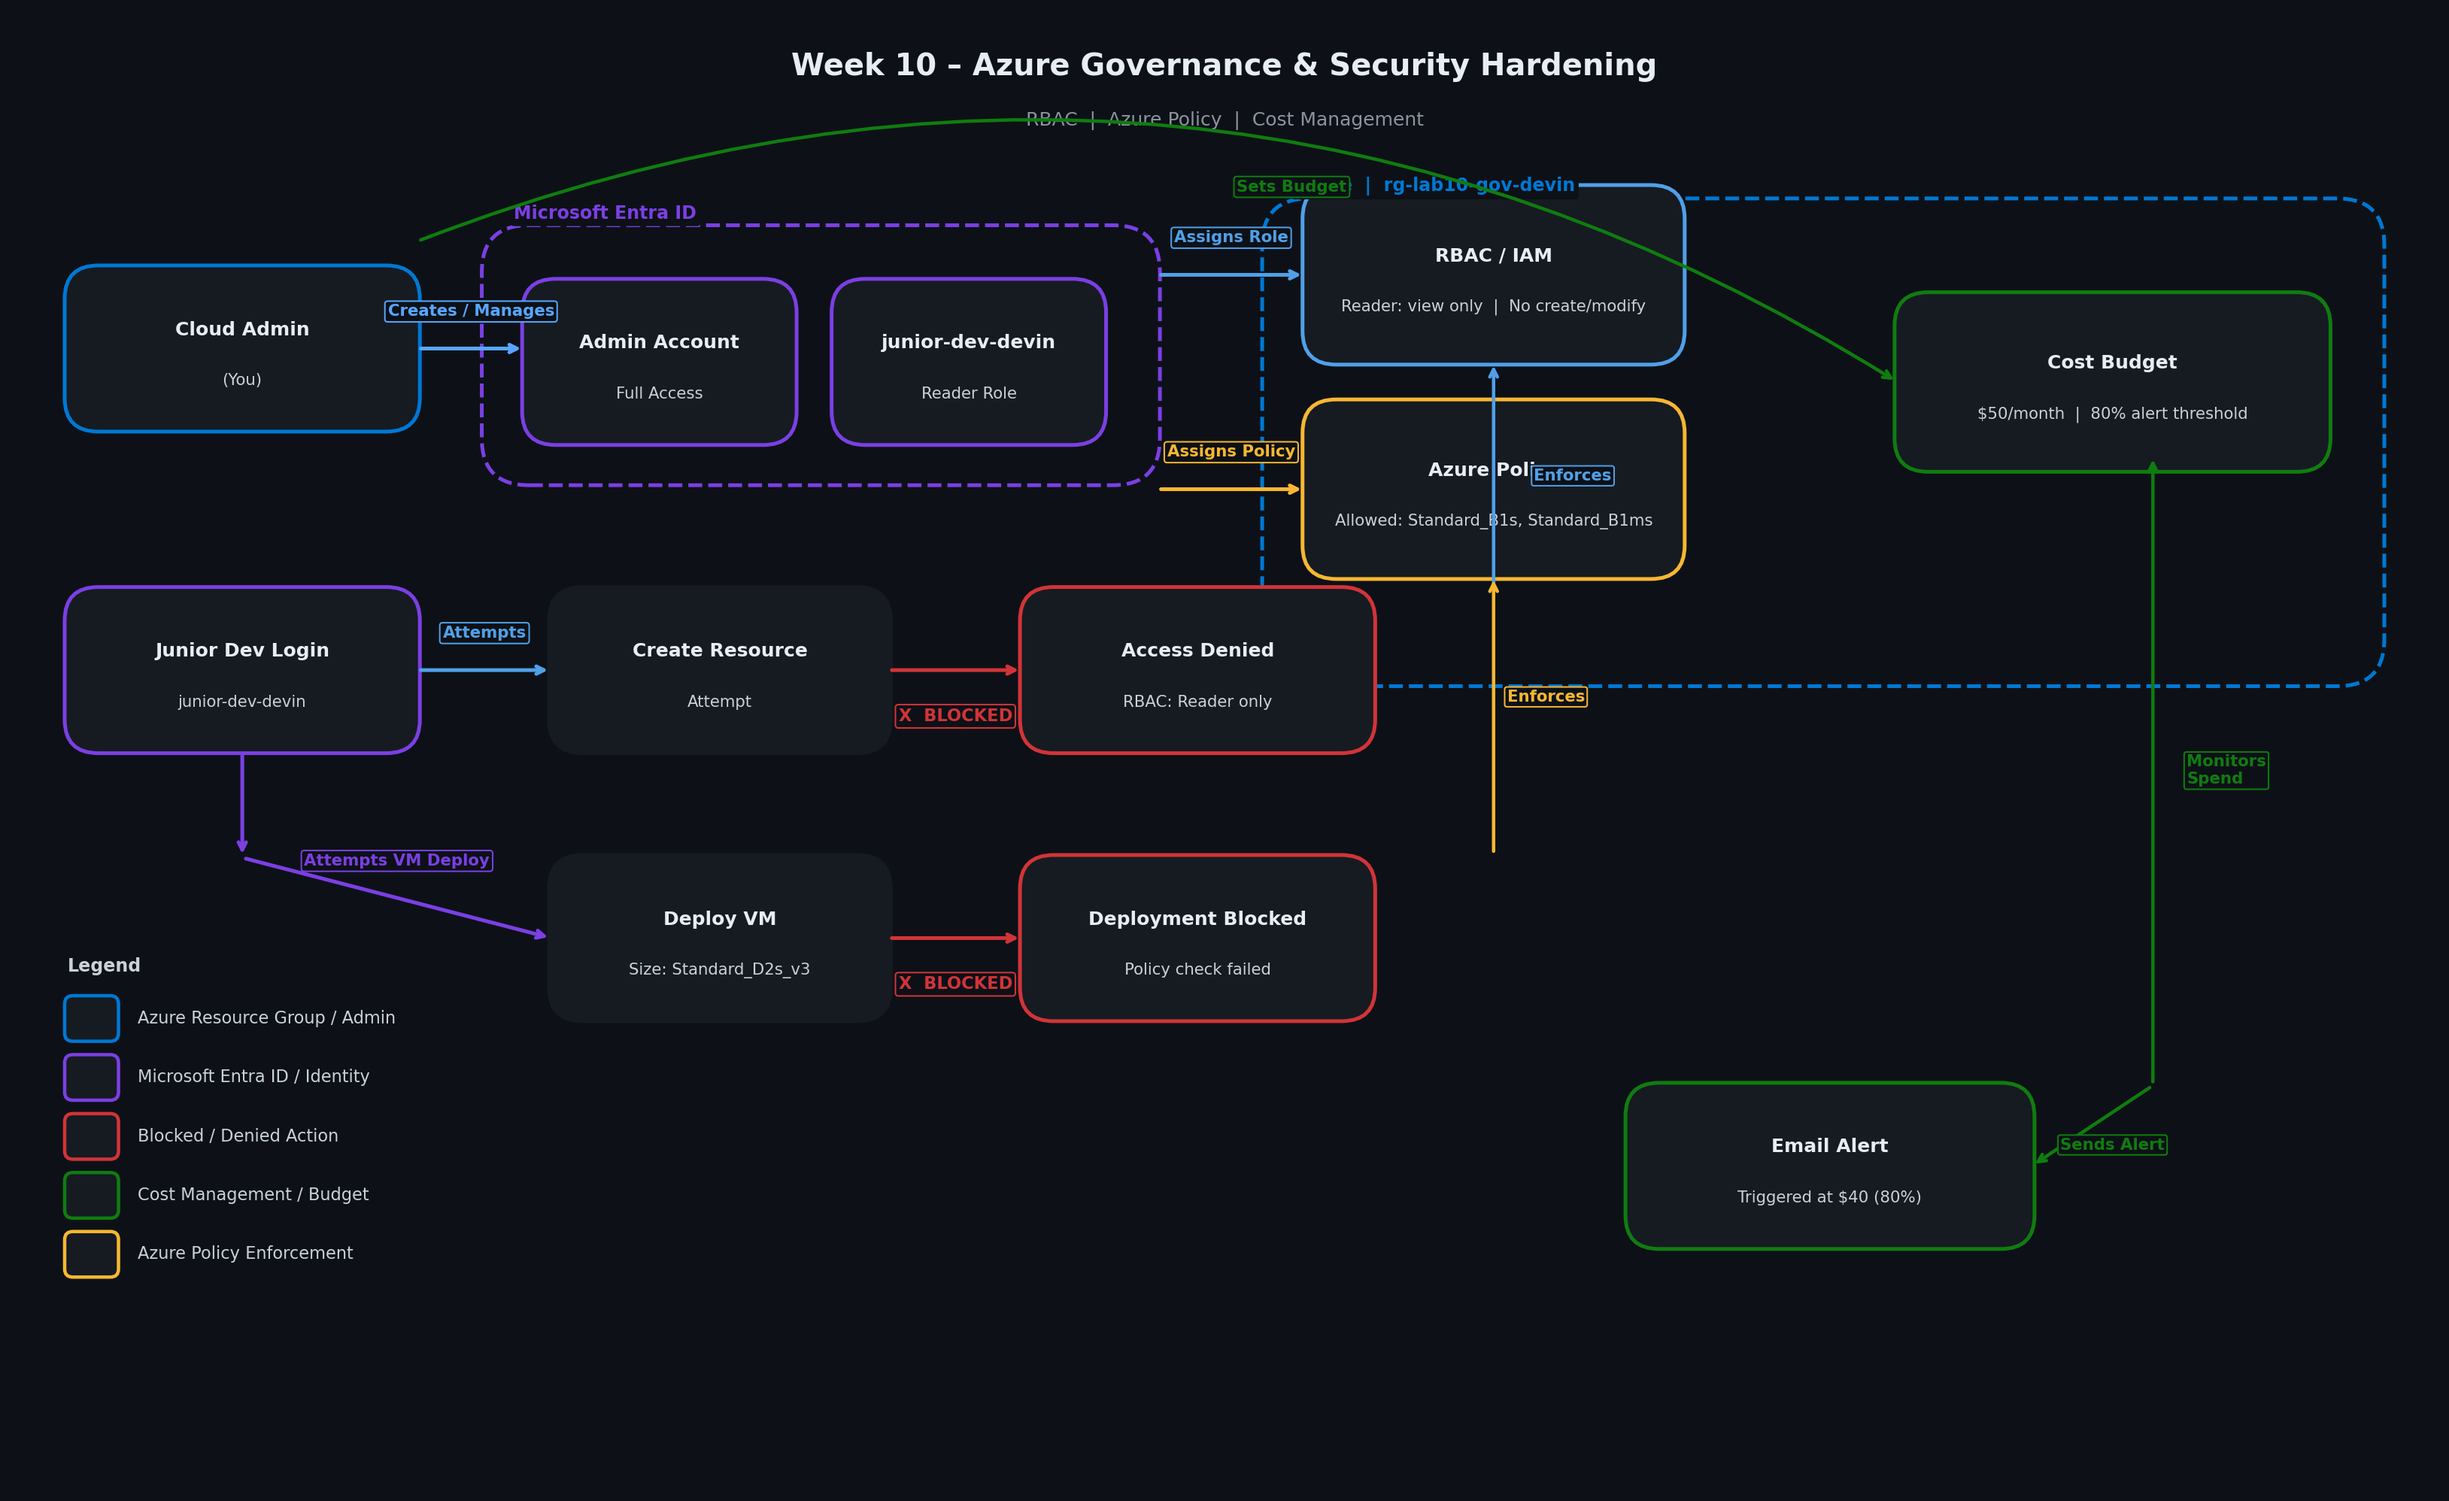
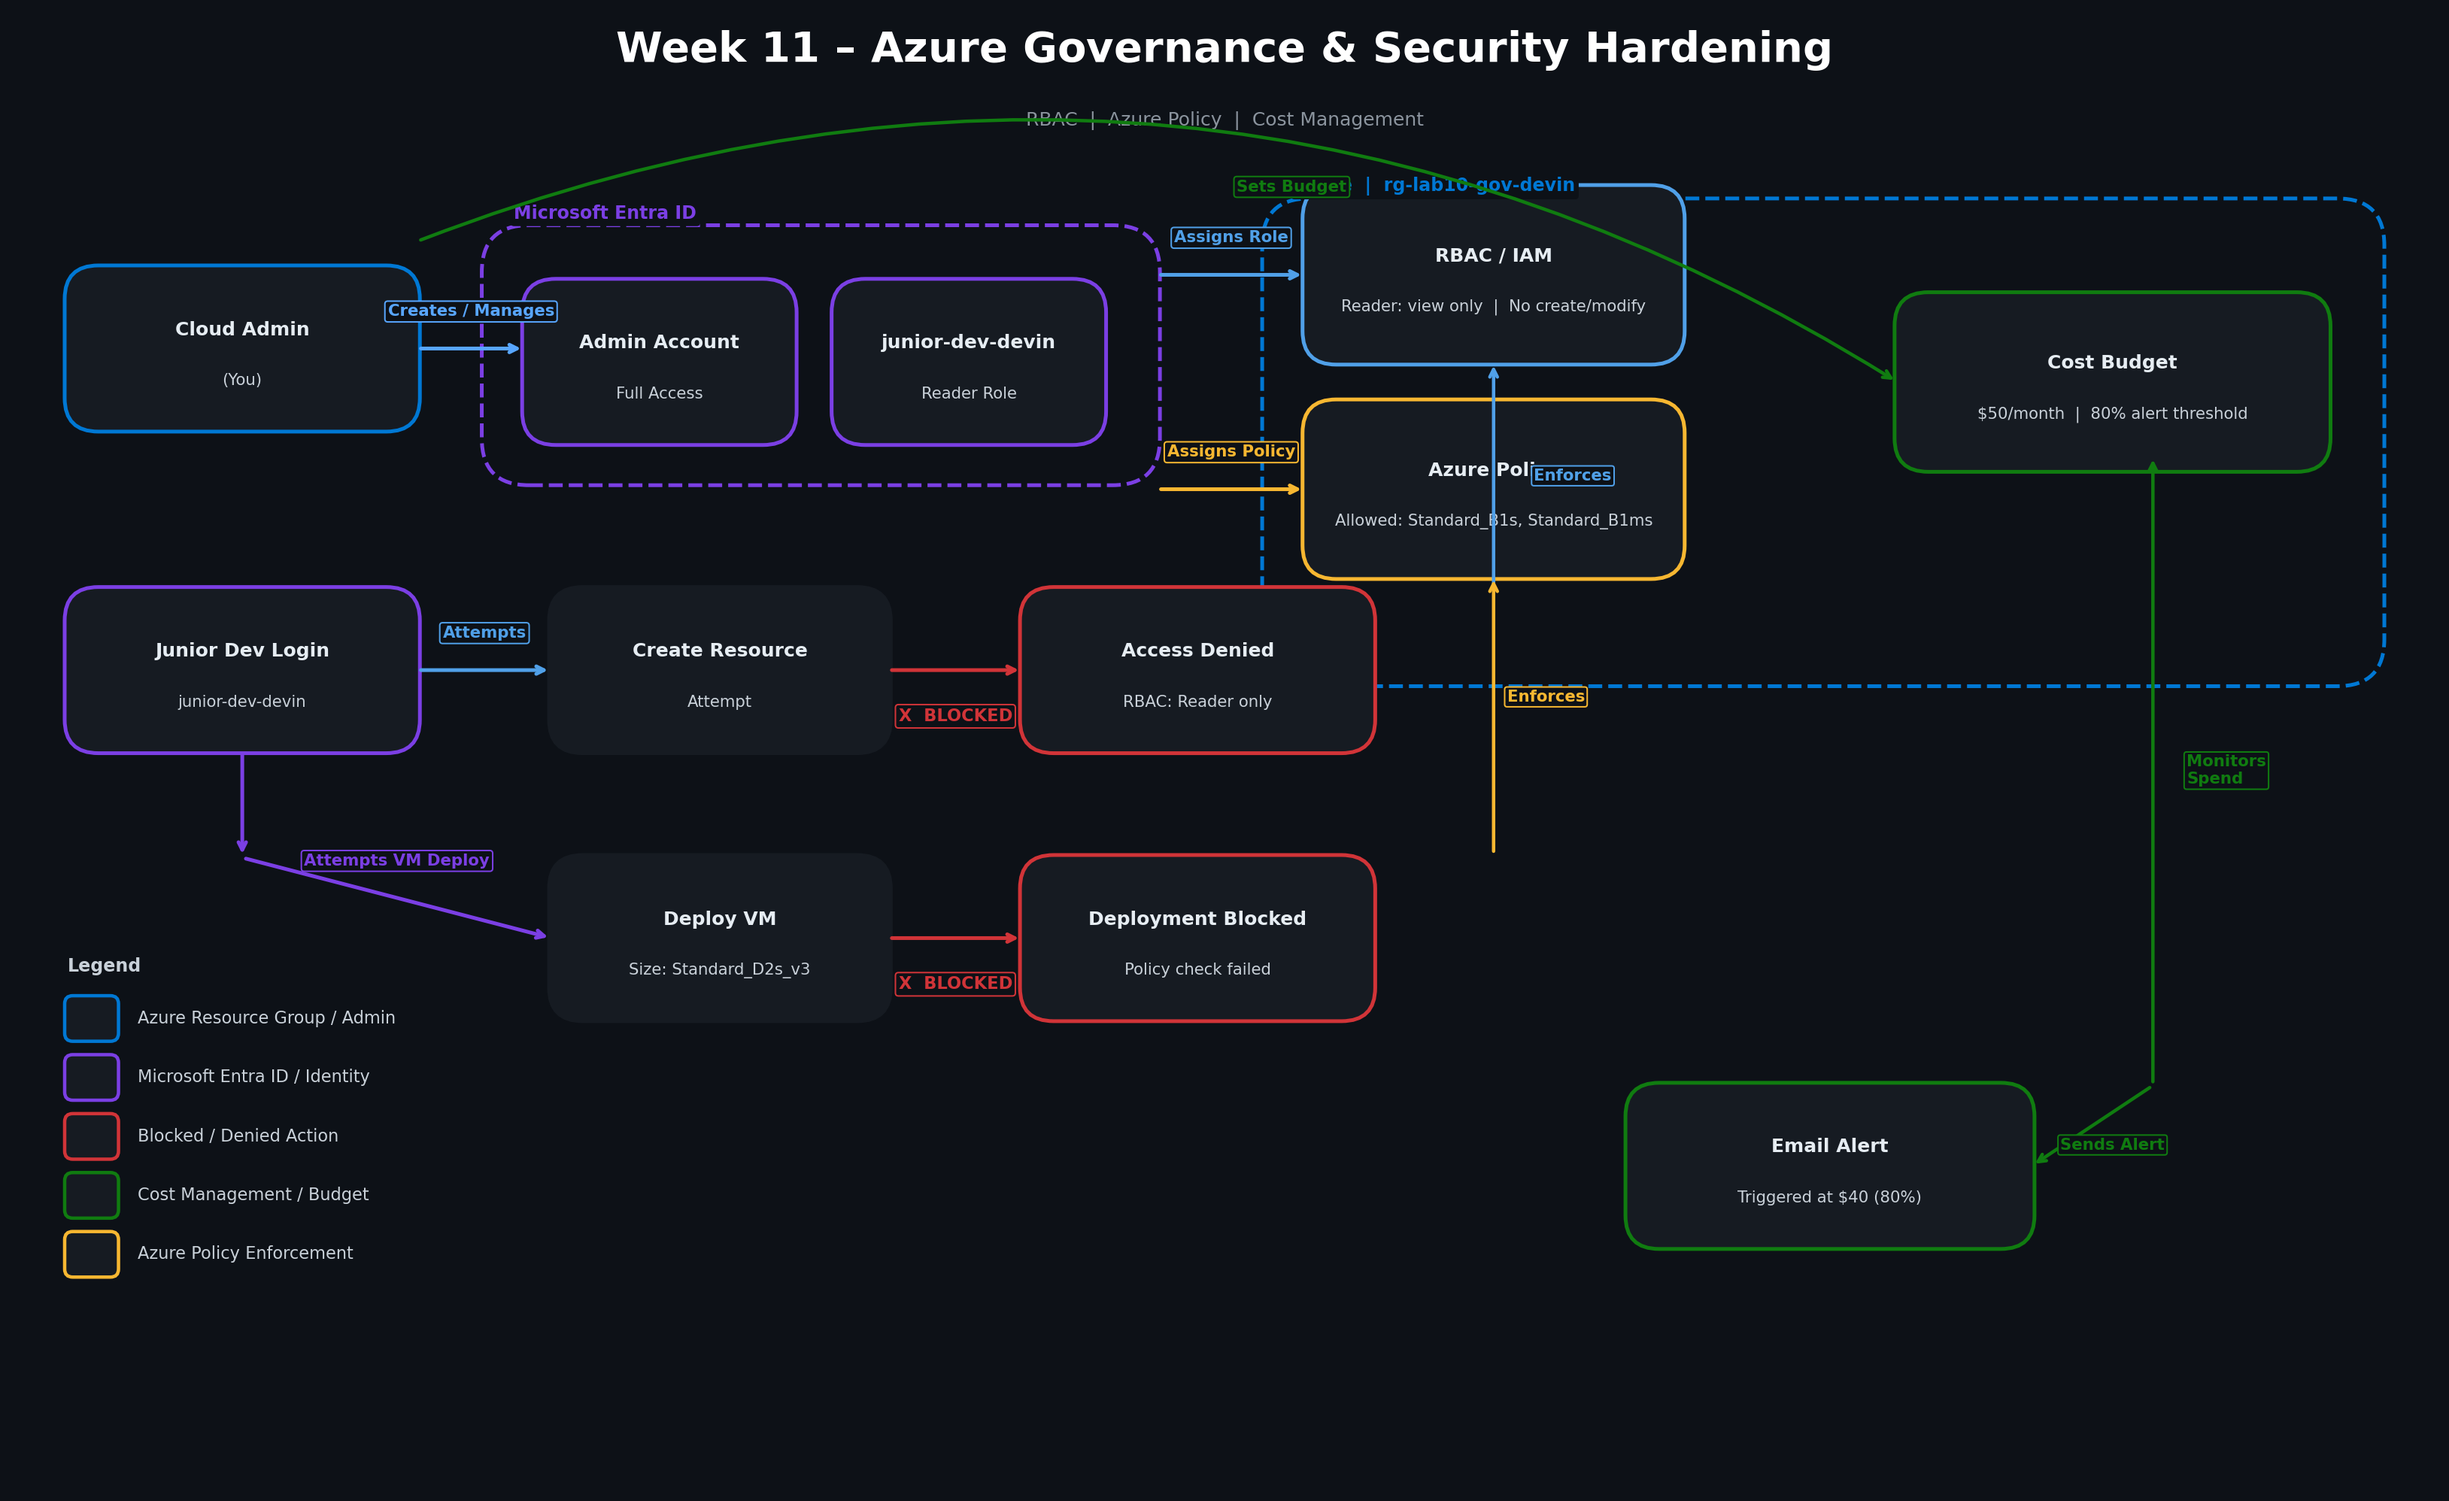
fix: align week 4 diagram and clean up cross-week reference errors
- Week 4: rename diagrams/week-11-architecture.png to week-04-architecture.png
  and correct the embedded title from "Week 11" to "Week 4" so the rendered
  diagram matches its lab.
- Week 4: fix README screenshot reference (week04-tcp-handshake.jpg ->
  week-04-tcp-handshake.jpg) so the image actually loads.
- Week 10: remove broken ![Architecture Diagram](diagrams/week-10-architecture.png)
  reference (no diagrams/ folder exists; Mermaid block already provides the
  diagram); drop the stale diagrams/ entry from Project Structure; correct
  "builds on Week 8" -> "builds on Week 9" (Terraform was Week 9).
- Week 11: correct the embedded title in diagrams/week-11-architecture.png
  from "Week 10" to "Week 11".
- Repo hygiene: untrack root .DS_Store and dedupe .gitignore.

All relative image and link references now resolve.

Changed region(s): [[0.2482, 0.0, 0.7445, 0.0621]]

diff --git a/week-10-azure-ad-domain-controller-terraform/README.md b/week-10-azure-ad-domain-controller-terraform/README.md
@@ -10,7 +10,7 @@
 
 Deploy a Windows Server 2022 virtual machine in Microsoft Azure and automatically configure it as an Active Directory Domain Controller using Terraform and an Azure VM Custom Script Extension.
 
-This lab builds on Week 8 by extending Infrastructure as Code (IaC) into identity management, simulating a real-world enterprise scenario where infrastructure and directory services are deployed together and managed as code.
+This lab builds on Week 9 by extending Infrastructure as Code (IaC) into identity management, simulating a real-world enterprise scenario where infrastructure and directory services are deployed together and managed as code.
 
 ---
 
@@ -154,14 +154,12 @@ week-10-azure-ad-domain-controller-terraform/
 │   ├── outputs.tf
 │   ├── terraform.tfvars.example
 ├── screenshots/
-├── diagrams/
 └── README.md
 ```
 
 ---
 
 ## 🗺 Architecture Diagram
-![Architecture Diagram](diagrams/week-10-architecture.png)
 
 ```mermaid
 graph LR
